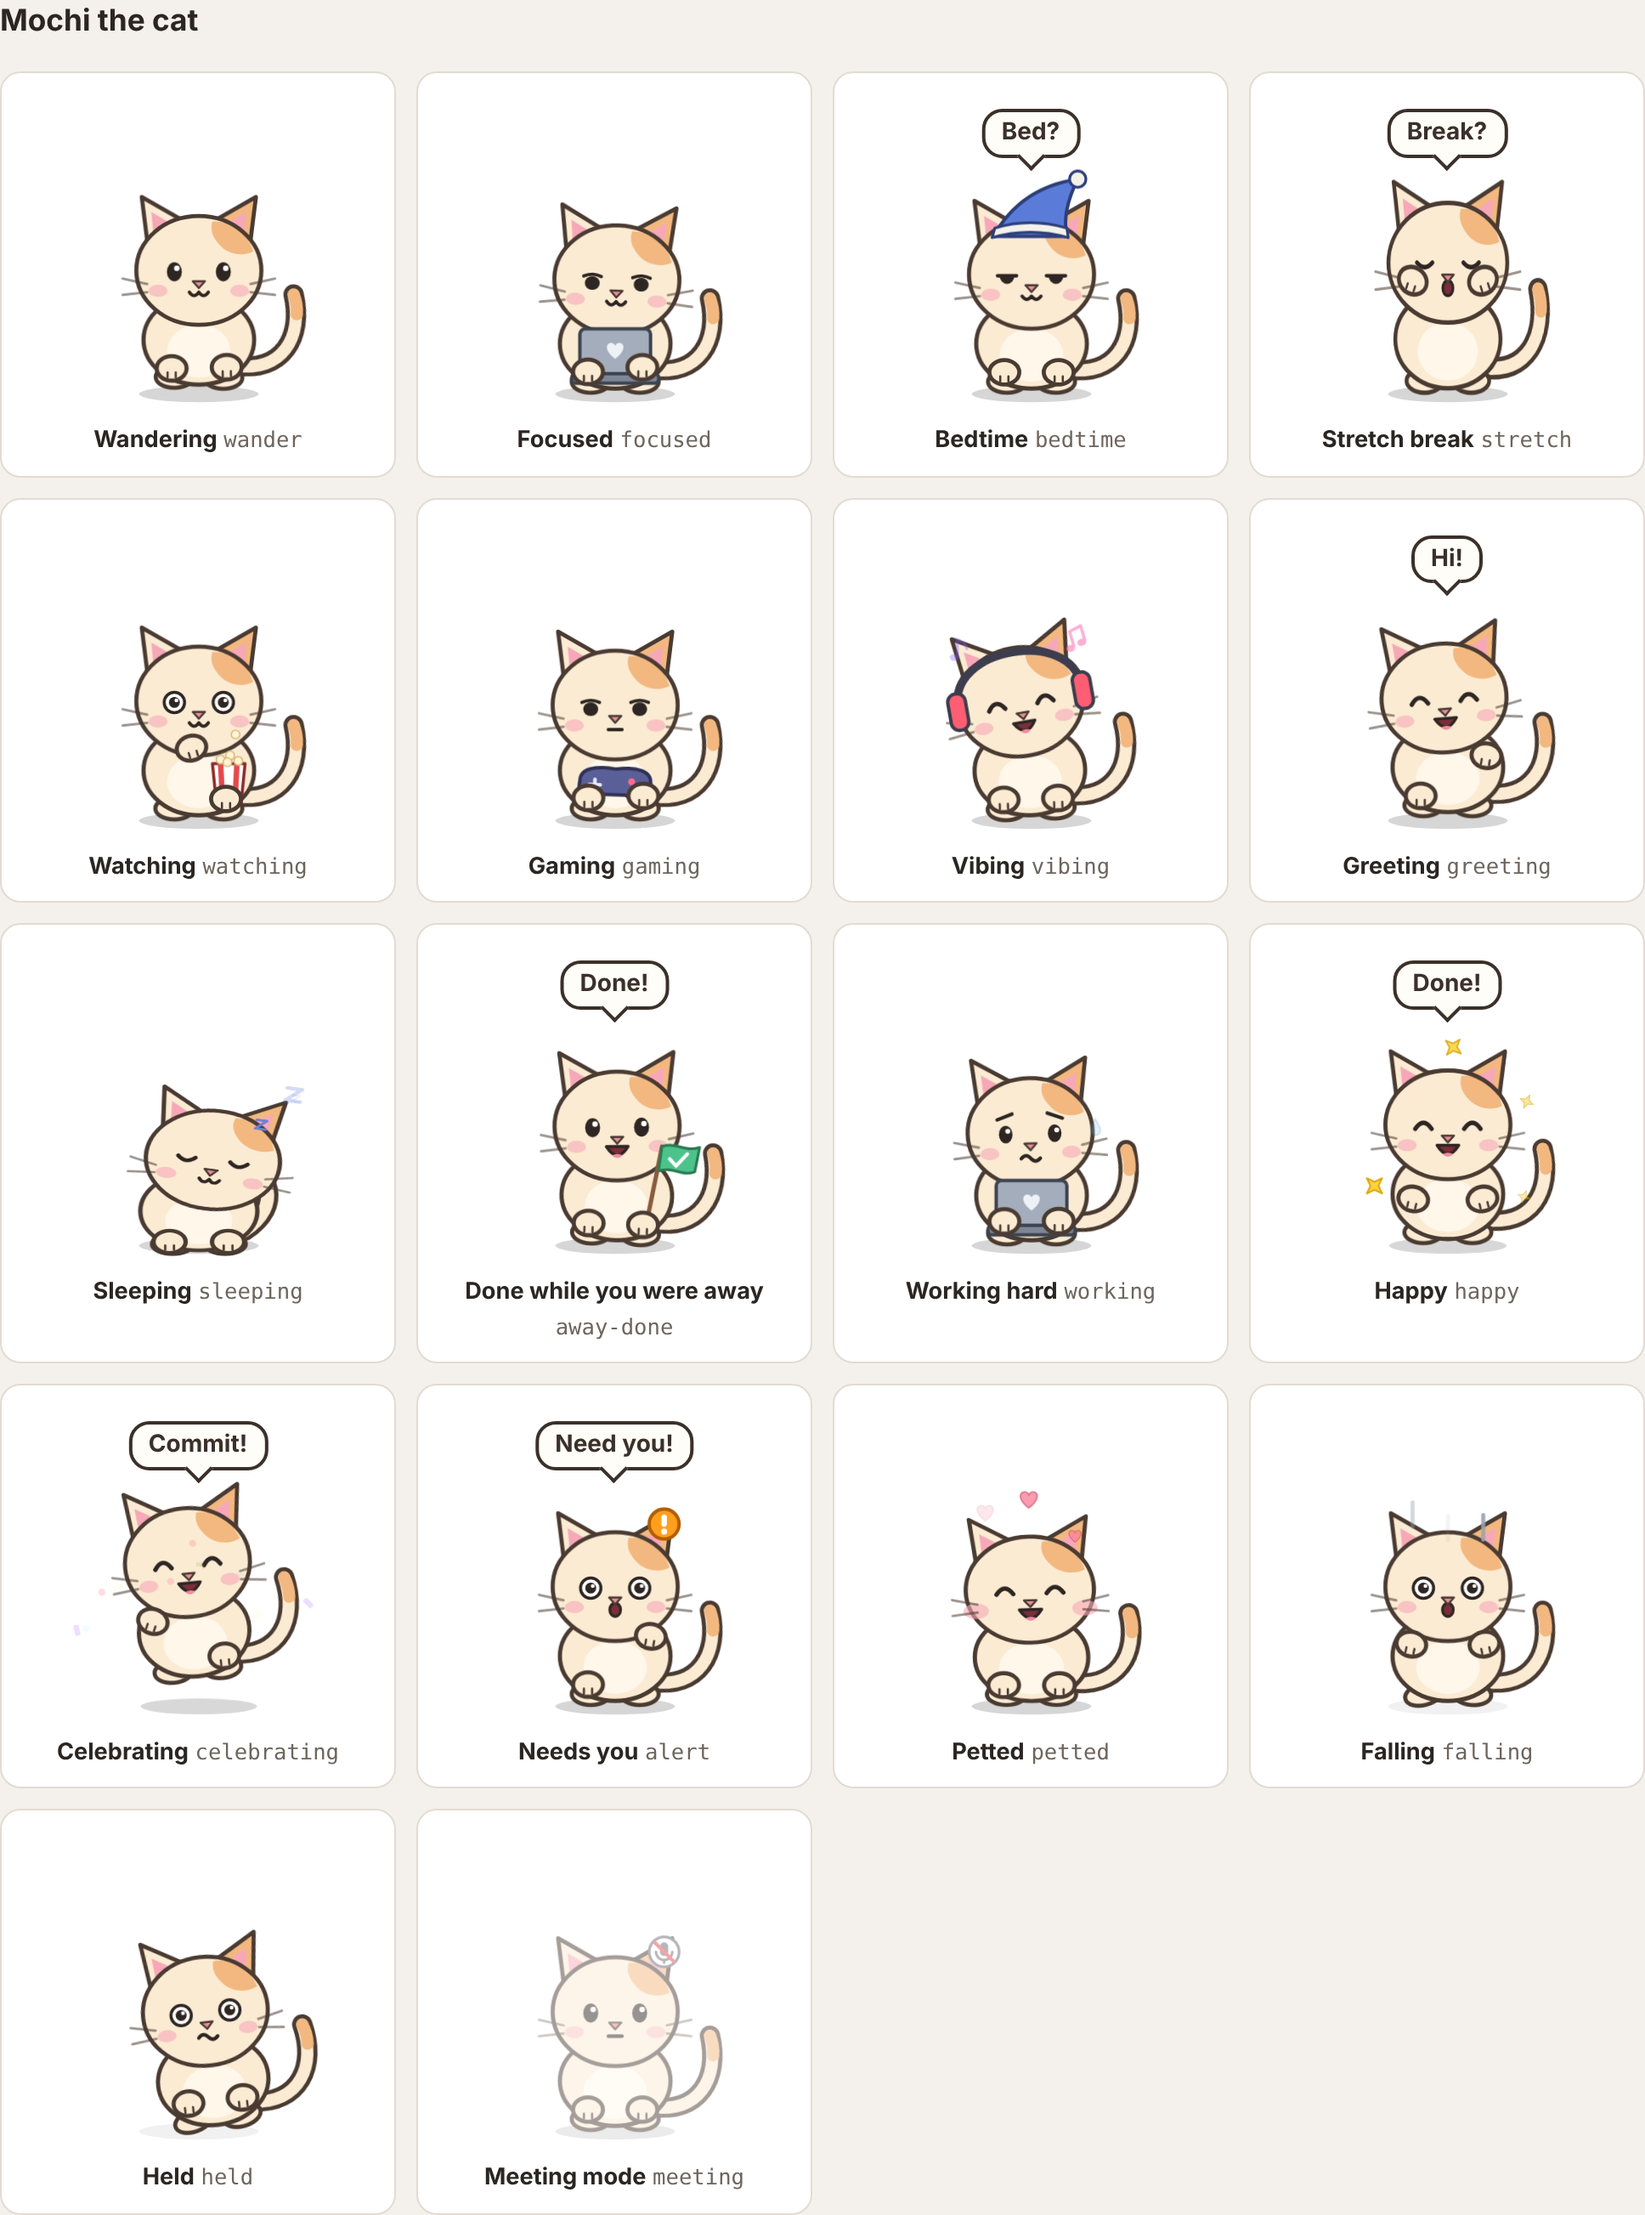
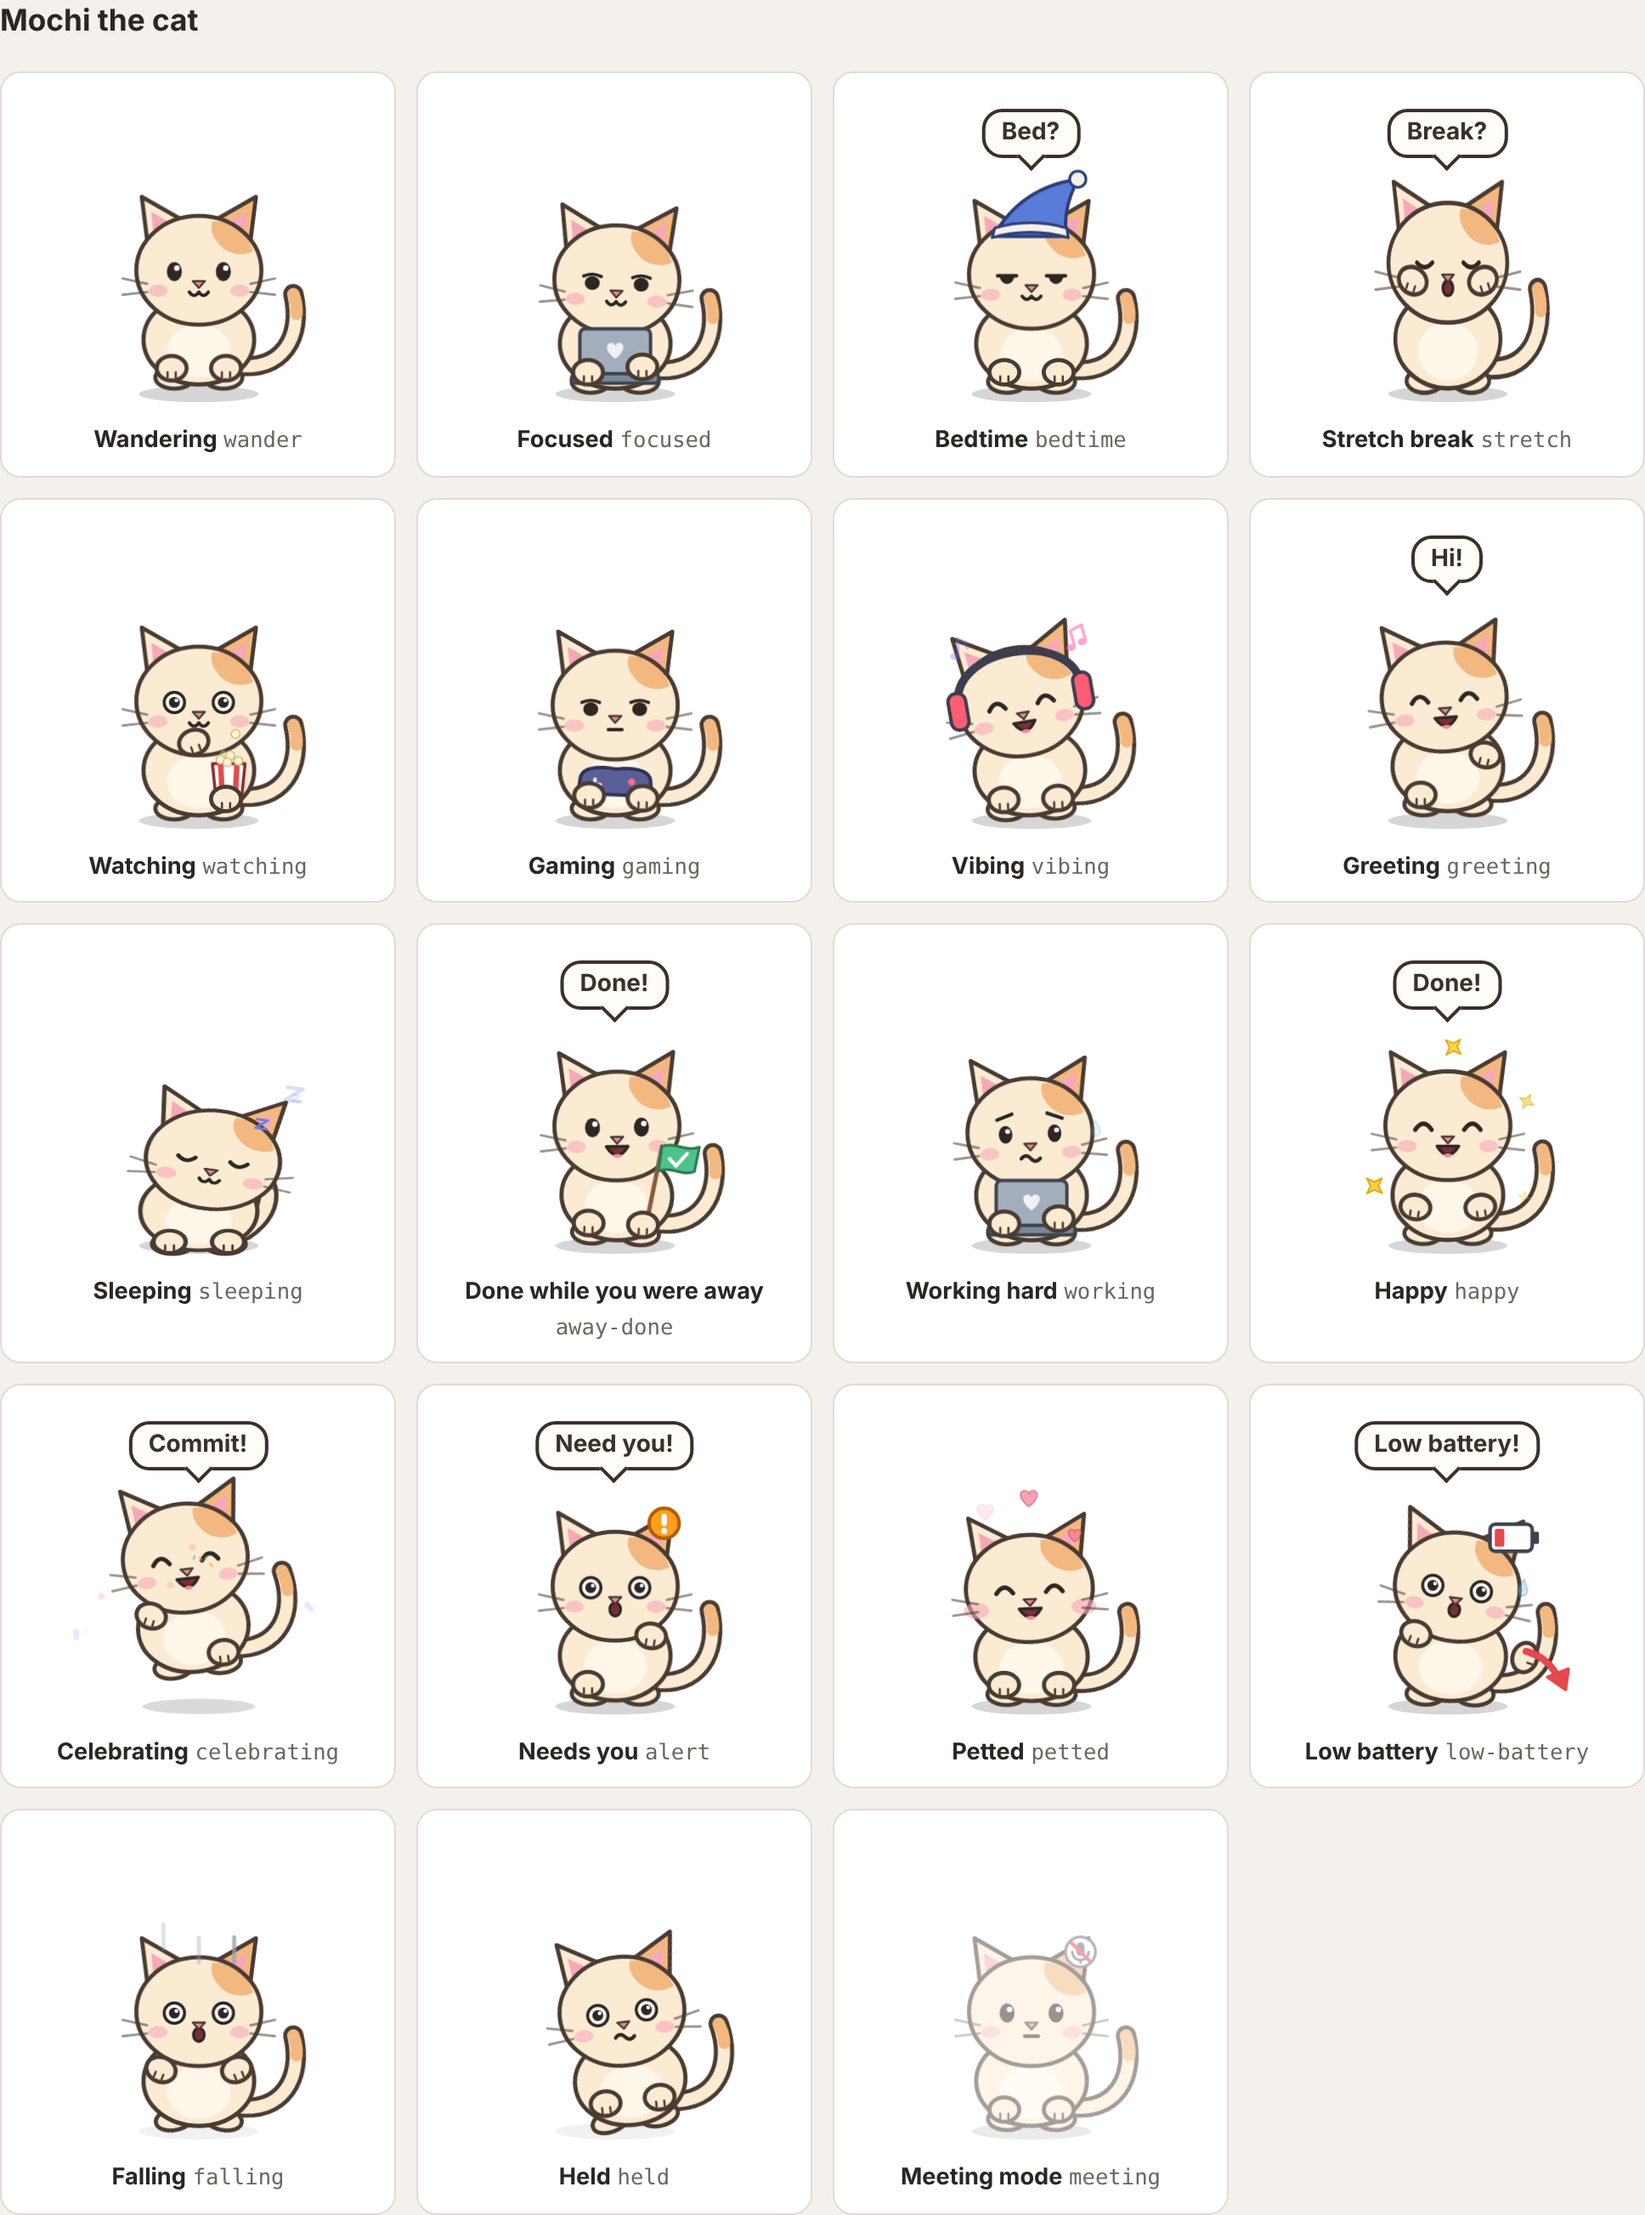
M12: README and GUIDE: the low-battery panic
README: the feature, the 19th state in the states table and the
priority order (a low battery shows even in a meeting or over a
fullscreen app), the lowBatteryPercent setting, what to do when it's
panicking in the corner, the stage's battery buttons, and a fresh
all-states picture with the new state. GUIDE: one line on what the
battery panic means and how to calm it (63 lines).

Claude-Session: https://claude.ai/code/session_01KQunWhEeEyc4s8eWW5a3Ju

diff --git a/README.md b/README.md
@@ -28,6 +28,8 @@ and [REVIEW.md](REVIEW.md).
   videos, and it goes quiet during meetings.
 - **Looks out for you.** A nightcap after bedtime, and a stretch reminder after a long
   stretch without a break.
+- **Panics about your battery.** On a laptop, unplugged at 10% or less, it runs to the
+  battery icon in the corner and points at it. Click it to open battery settings.
 - **Quick hide.** Press **Ctrl+Alt+P** (or use the tray) to put the pet away, and again to
   bring it back. It keeps up with what's going on while hidden.
 - **Six pets to choose from**, with an optional daily shuffle.
@@ -47,7 +49,7 @@ and [REVIEW.md](REVIEW.md).
 | Soft care-bot | Nimbus | A soft lavender bot with an LED visor, a cloud crest and a glowing heart |
 
 Pick one in **Settings → Your pet** or from the tray's **Pet** menu, or turn on **A
-different pet every day**. Every pet has all 18 animations.
+different pet every day**. Every pet has all 19 animations.
 
 ## Animation states
 
@@ -71,17 +73,19 @@ different pet every day**. Every pet has all 18 animations.
 | `petted` | You click the pet | Hearts (about 2 seconds) |
 | `held` | You drag the pet | Dangles with its legs kicking |
 | `falling` | You let go of it | Falls to the taskbar and squashes as it lands |
+| `low-battery` | Unplugged, with the battery at 10% or less | Runs to the bottom-right corner, points down at the battery icon and shakes, with a blinking empty battery and "Low battery!". Click it to open Windows' battery settings |
 
-When several apply, the first of these wins: being held, dropped or petted; Claude
-needing you; a celebration or Claude finishing; Claude working; Claude finished while you
-were away; sleeping; greeting; an app mood; a stretch or bedtime nudge; focused;
-wandering. `meeting` (and hiding while something is fullscreen) apply on top of whatever
-wins. The times above are the defaults, and all of them can be changed in Settings.
+When several apply, the first of these wins: being held or dropped; a low battery;
+being petted; Claude needing you; a celebration or Claude finishing; Claude working;
+Claude finished while you were away; sleeping; greeting; an app mood; a stretch or bedtime
+nudge; focused; wandering. `meeting` (and hiding while something is fullscreen) apply on
+top of whatever wins, except a low battery, which shows even then. The times and levels
+above are the defaults, and all of them can be changed in Settings.
 
 <details>
-<summary>All 18 states for Mochi</summary>
+<summary>All 19 states for Mochi</summary>
 
-![Mochi in each of the 18 animation states](docs/images/states.webp)
+![Mochi in each of the 19 animation states](docs/images/states.webp)
 
 </details>
 
@@ -290,6 +294,7 @@ If you edit the file by hand:
 | A break is at least | `breakMinutes` | `5` | 1 to 120 minutes |
 | Bedtime | `bedtime` | `"00:30"` | `"HH:MM"`, or `null` to turn it off |
 | Morning | `wakeTime` | `"06:00"` | `"HH:MM"` |
+| Panic about the battery at | `lowBatteryPercent` | `10` | 0 to 50 percent (0 turns it off) |
 | Quiet during meetings | `quietDuringMeetings` | `true` | |
 | Hide when something is fullscreen | `hideWhenFullscreen` | `true` | |
 | App rules | `appRules` | See [App rules](#app-rules) | Up to 100 rules |
@@ -422,7 +427,7 @@ Then open <http://127.0.0.1:4173/preview/>. The preview server only serves the
 
 There are two pages:
 
-- **Gallery** (`/preview/`): every pet in all 18 animation states, each labelled with
+- **Gallery** (`/preview/`): every pet in all 19 animation states, each labelled with
   what triggers it.
   - Use the **Pet** menu to pick one pet. A single pet also shows its three sweat levels
     (one, two, or three or more busy Claude sessions).
@@ -430,8 +435,9 @@ There are two pages:
 - **Stage** (`/preview/stage.html`): the real pet walking along a pretend desktop. It has:
   - **Event buttons** for everything the app reacts to: Claude Code sessions (start
     working, a second session, permission prompts, tool finished, finished), you (go idle,
-    come back, lock, unlock), coding (file edits, commits), and apps (Spotify, a Zoom
-    meeting, a Steam game, YouTube, a fullscreen game).
+    come back, lock, unlock), coding (file edits, commits), apps (Spotify, a Zoom
+    meeting, a Steam game, YouTube, a fullscreen game), and the battery (low battery,
+    plug in).
   - **Click, drag and drop:** click the pet to pet it. Drag it to carry it around, and let
     go to drop it.
   - **Time speed:** up to an hour per second, so you can see it fall asleep, nudge you to
@@ -536,6 +542,12 @@ is on; it comes back when that window isn't in front.
 
 **Ctrl+Alt+P does nothing.** Another app may already use it: **Settings → System** says
 so under the shortcut. Click the box and press a different one.
+
+**It's panicking in the corner.** The battery is low: plug in and it calms down at once.
+It panics at 10% or less while unplugged; change the level (or set 0 to turn it off) in
+**Settings → You → Panic about the battery at**. It reads the battery through the same
+hidden PowerShell as the app moods, so if PowerShell is blocked it can't tell. A desktop
+PC without a battery never panics.
 
 **App moods don't change.** They only work on Windows. The pet asks a hidden
 `powershell.exe` which window is in front once a second; if PowerShell is blocked on

diff --git a/GUIDE.md b/GUIDE.md
@@ -43,6 +43,8 @@ Using Claude Code inside WSL, or would rather build from source? See the
   you commit.
 - **Your apps:** headphones for music, popcorn for YouTube and Netflix, a controller for
   games, quiet during meetings, and out of the way when something is fullscreen.
+- **Your battery:** unplugged at 10% or less, it runs to the battery icon in the corner and
+  panics. Click it to open battery settings, or plug in to calm it.
 
 ## If something's off
 
